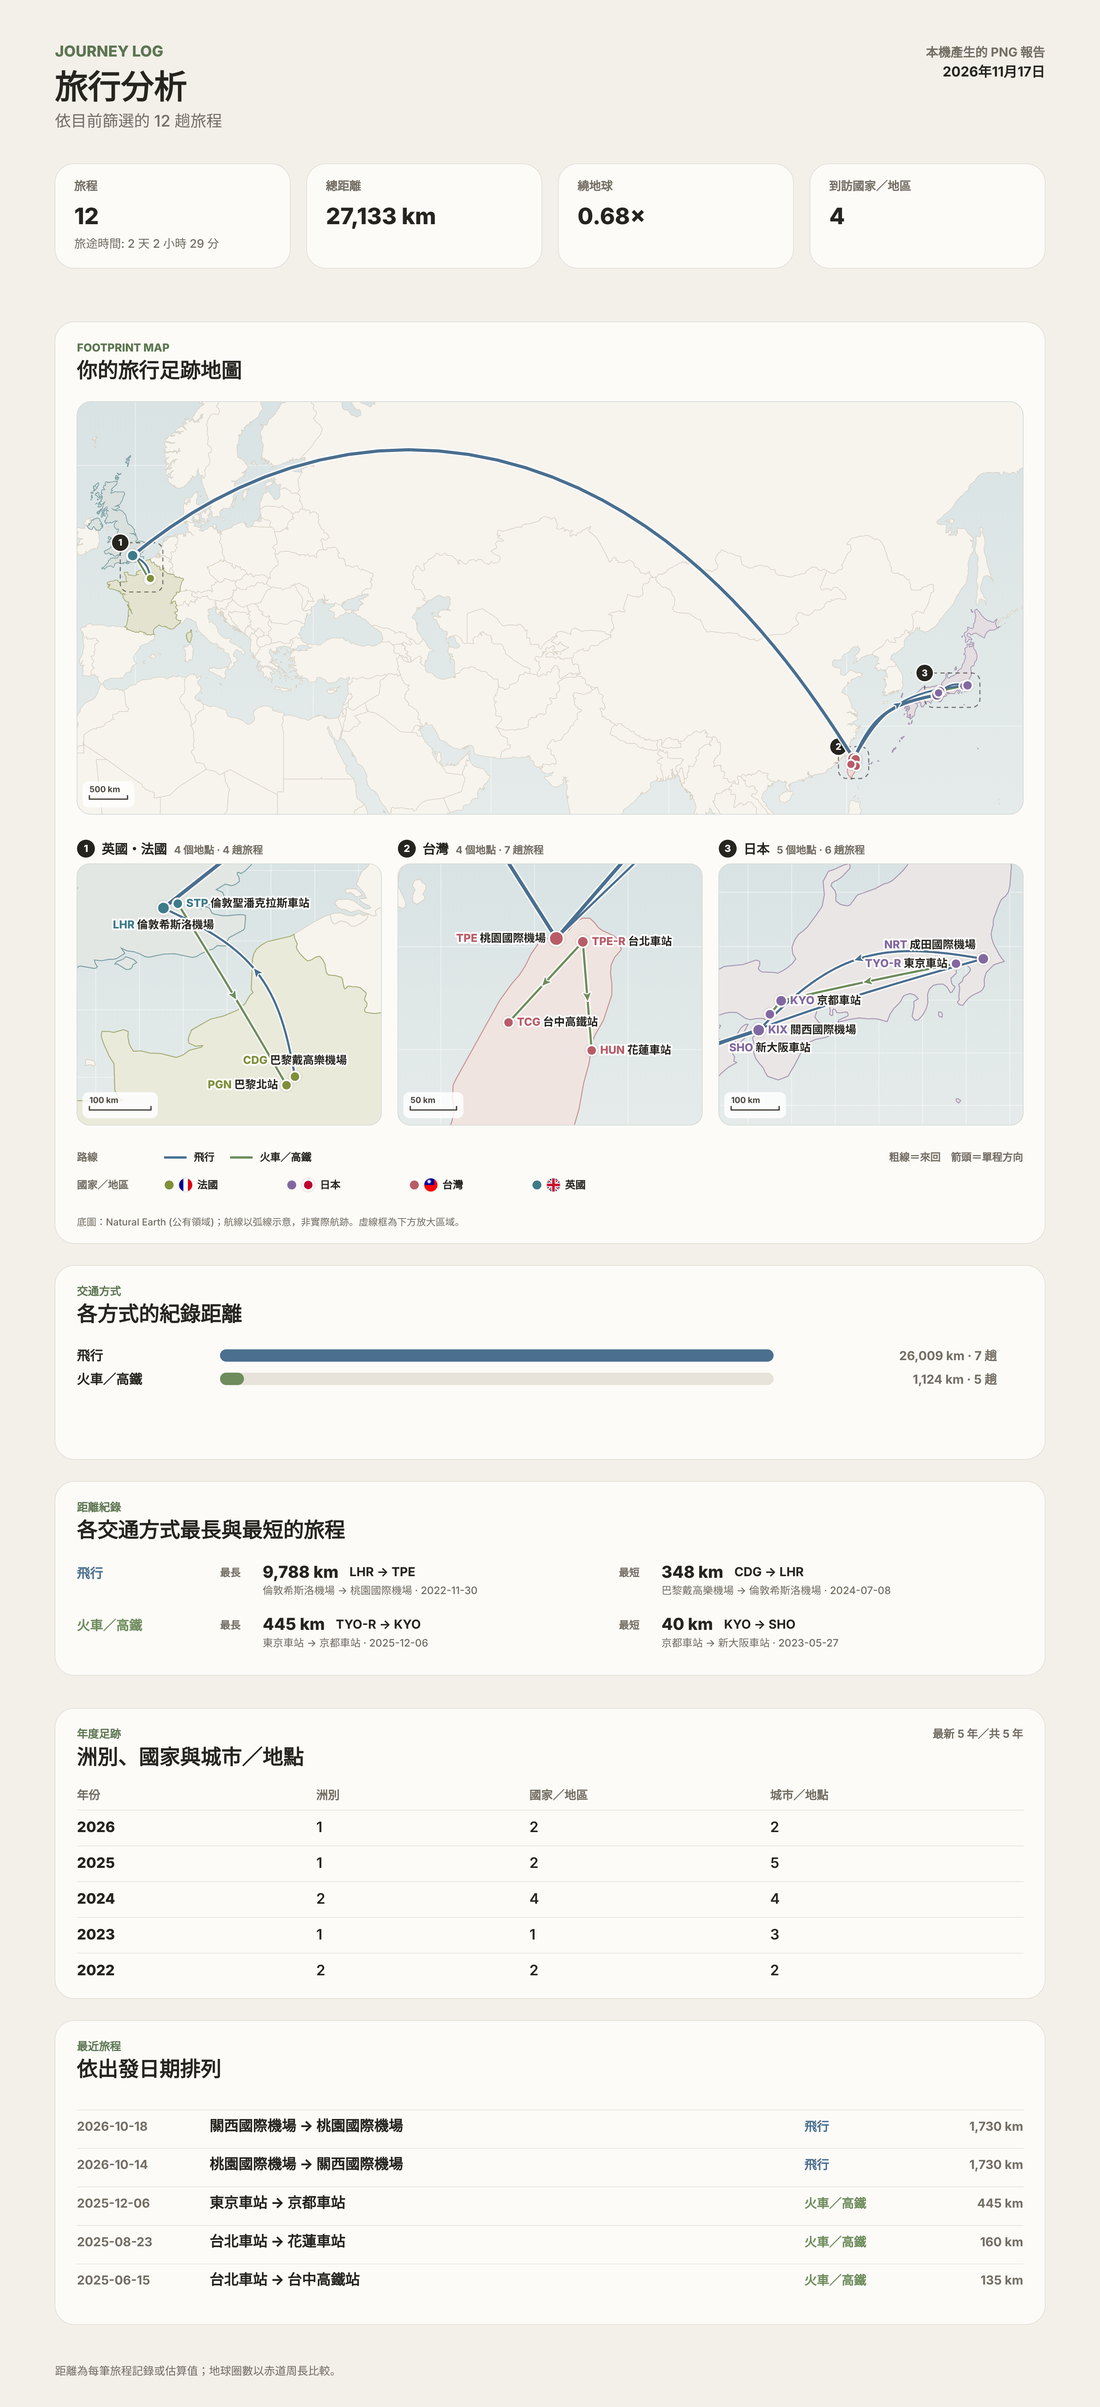
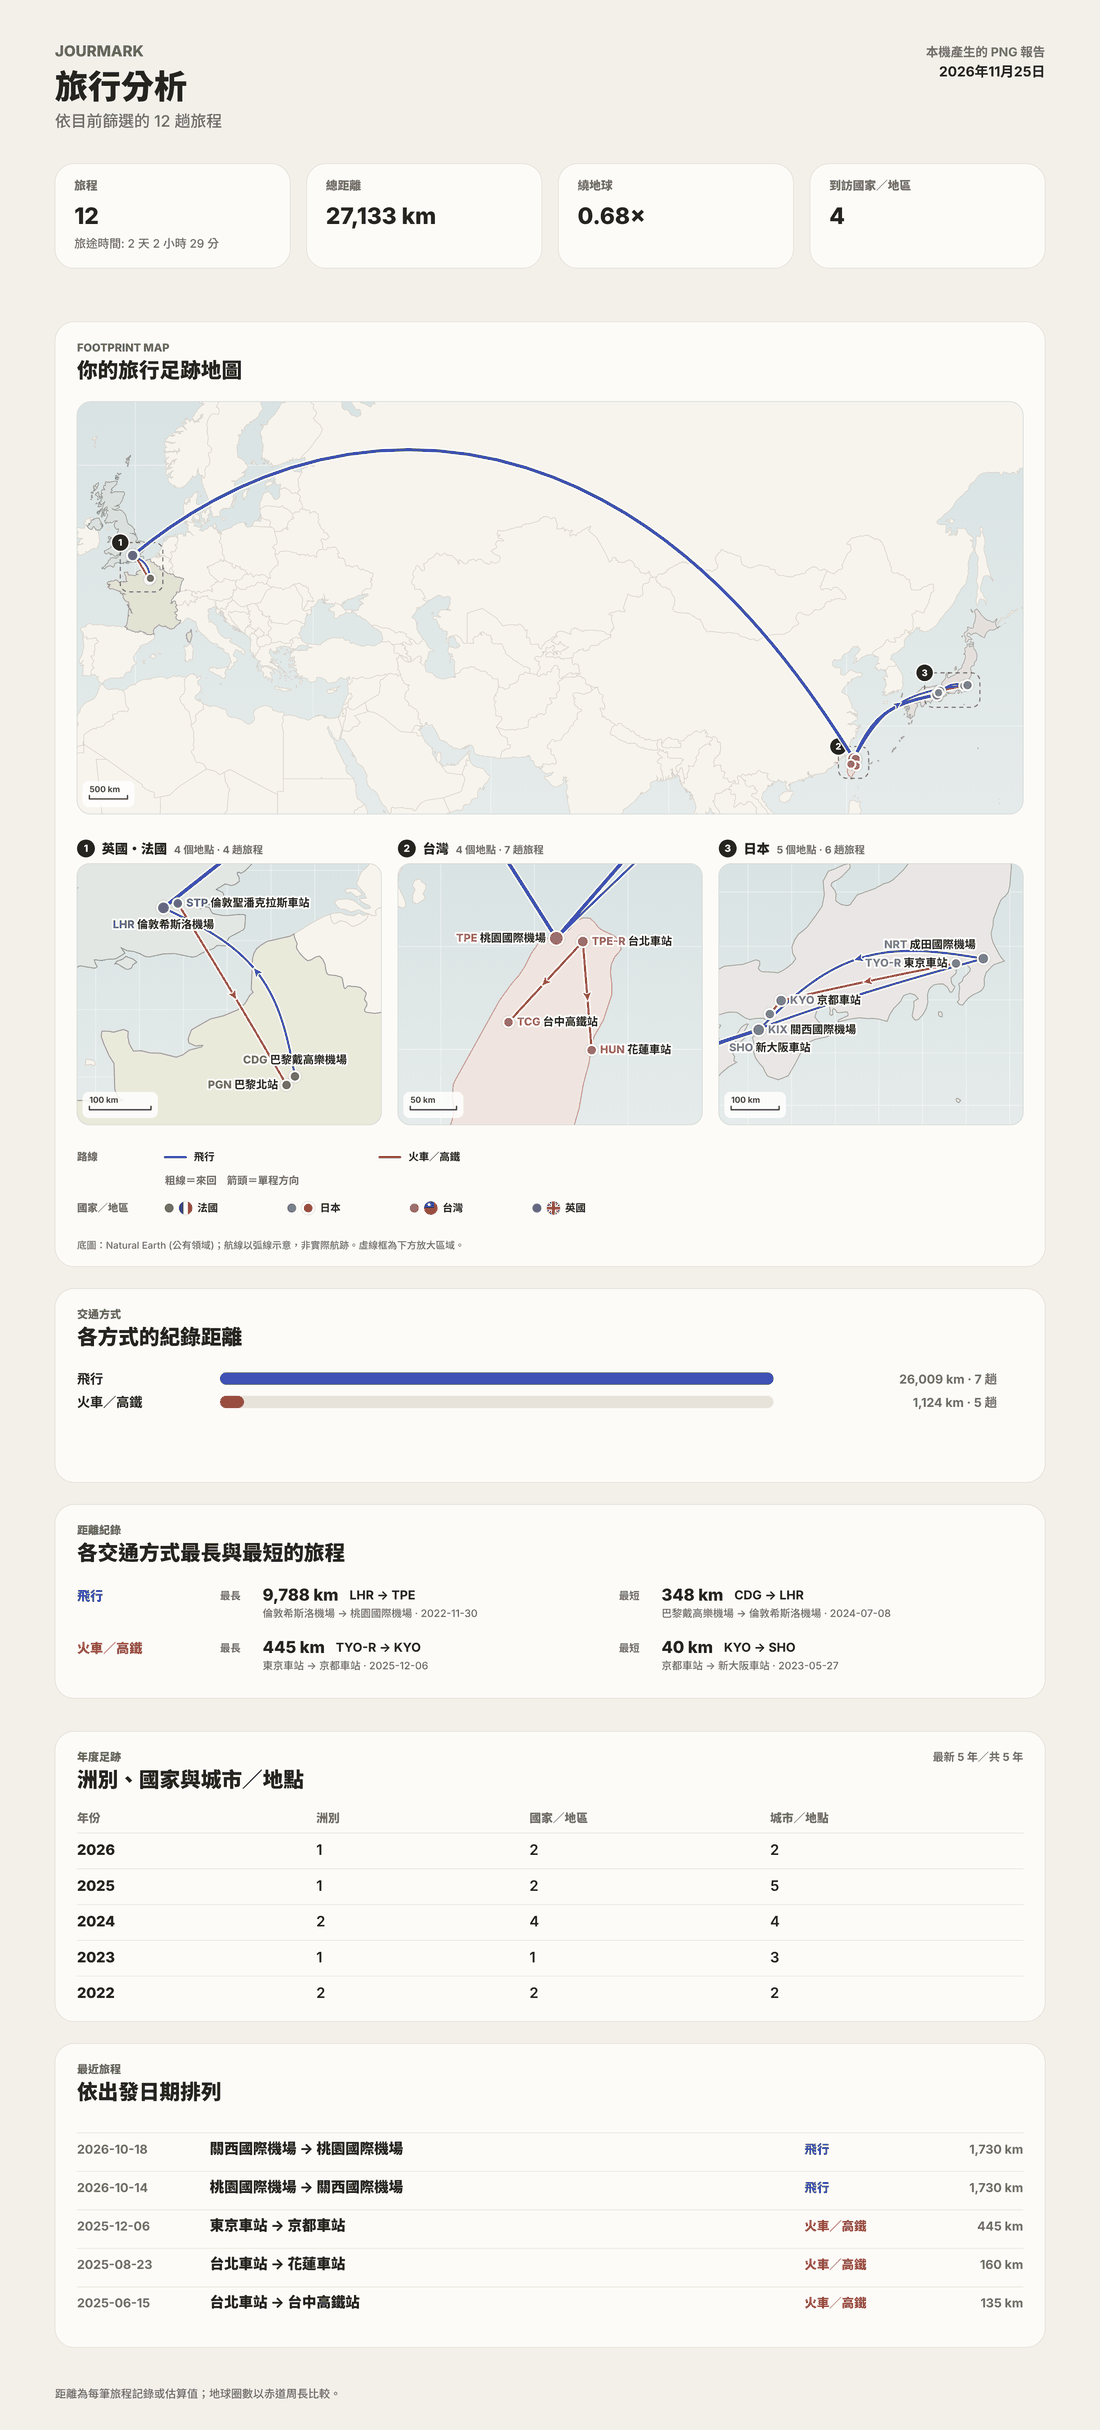
Rename the overview to Jourmark｜逐拾
New name, the line 逐心所向，拾途成印 with its subtitle, the new address
https://jourmark.vercel.app, and screenshots whose images and PDF
carry the new name.

Claude-Session: https://claude.ai/code/session_01CVuGMUFeigRq95zoUkzZmL

diff --git a/README.md b/README.md
@@ -1,10 +1,15 @@
-<p align="center"><img src="docs/icon.png" alt="Journey Log app icon" width="96" height="96"></p>
+<p align="center"><img src="docs/icon.png" alt="Jourmark app icon" width="96" height="96"></p>
 
-# Journey Log — travel log, trip planner, arts & events, and trip expense splitter
+# Jourmark｜逐拾 — travel log, trip planner, arts & events, and trip expense splitter
 
-**Live app:** https://journey-log-beta.vercel.app (sample data included; no sign-in needed to try it)
+> **逐心所向，拾途成印** · Follow your heart. Keep every mark.
+>
+> 從出發到散場，沿途風景與舞台記憶，都值得珍藏。
+> From the first departure to the final encore, every view and every show is worth keeping.
 
-Journey Log is a local-first, installable web app (PWA) for everything around
+**Live app:** https://jourmark.vercel.app (sample data included; no sign-in needed to try it)
+
+Jourmark (逐拾, formerly Journey Log) is a local-first, installable web app (PWA) for everything around
 a trip: a log of every flight, train, bus, car trip, ferry and cruise; a
 day-by-day trip planner that works as a travel companion while you are away;
 a ticket wallet for the concerts, musicals and exhibitions people travel to
@@ -15,7 +20,7 @@ default, with optional end-to-end-encrypted sync and shared ledgers.
 This repository is the public overview of the project. The source code is kept
 private; see [Source code](#source-code).
 
-> **簡介**：Journey Log 是一個「資料先存在自己裝置」的旅行 App，裝在手機主畫面就像一般 App，離線也能用。五個分頁：
+> **簡介**：Jourmark 逐拾（原名 Journey Log）是一個「資料先存在自己裝置」的旅行 App，裝在手機主畫面就像一般 App，離線也能用。五個分頁：
 > - **旅行足跡**：記錄飛機、火車／高鐵、巴士、自駕、渡輪、郵輪；貼上電子機票或訂位信自動加入，轉機自動串成一趟；統計、國旗、旅行護照、路線地圖和可分享的足跡報告圖。
 > - **旅程規劃**：一天天安排行程卡片、待辦、預算；AI 行程建議、天氣預報、行程月曆；出發後打開就看到「接下來」要去哪；下載成 PDF、長圖、行事曆或行程檔，回來後還能做整趟旅行回顧。
 > - **旅伴記帳**：多幣別分帳（平均、指定金額、按份數），記錄還款，可以邀請旅伴共用同一本帳（端對端加密）；喜愛清單可以拍商品包裝，AI 辨識原文並翻譯。
@@ -245,7 +250,7 @@ Examples of decisions I made along the way:
 
 ## Source code
 
-The source code is in a private repository, because I may develop Journey Log
+The source code is in a private repository, because I may develop Jourmark
 further and release it. If you are reviewing my work for a role and would like
 to see the code, please contact me through
 [LinkedIn](https://www.linkedin.com/in/hsi-liang-claire/) and I will gladly
